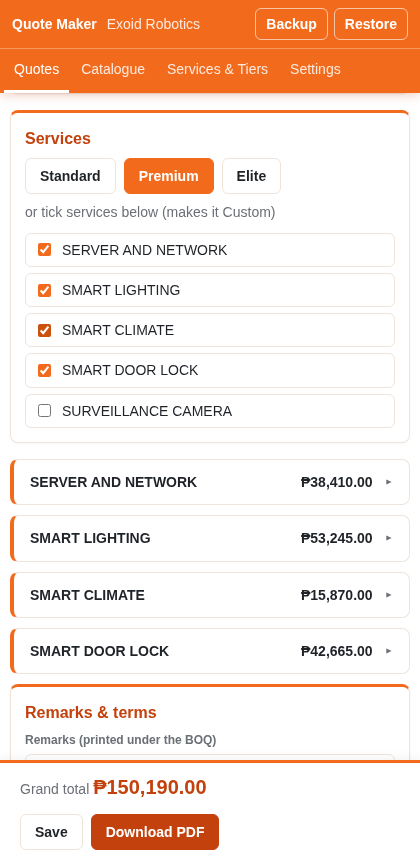
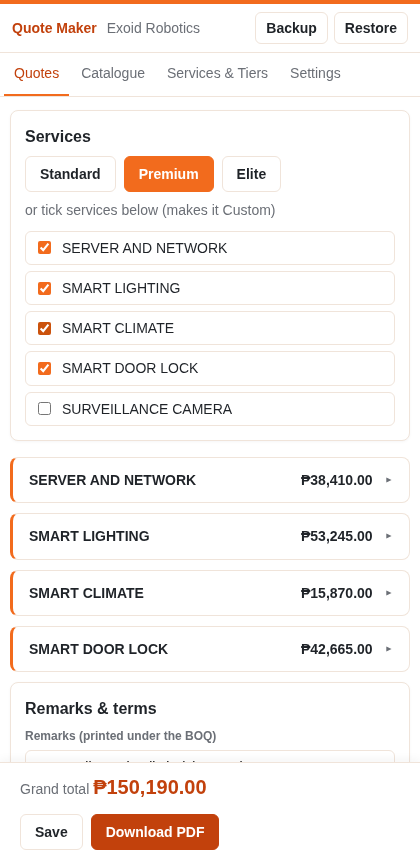
style: tone the orange down to an accent for a more professional look
- PDF: white cover with orange line-art house and outlined total; thin orange top band;
  pale orange table headers with dark text; totals highlighted with a rule, not a fill;
  service cards with a thin orange edge
- app: white header with orange top line and orange active tab; cards without orange stripes

Changed region(s): [[0.0, 0.0, 1.0, 0.907]]

diff --git a/src/pdf.js b/src/pdf.js
@@ -2,7 +2,8 @@
 // cover → what's included → BOQ → Proforma Invoice → one DUPA per pay item. Tables keep the Casa layout.
 import { quoteTotals, lineQty, lineTotal, fmtNum, num } from './calc.js';
 
-const C = { orange: '#F26B1D', deep: '#C2410C', soft: '#FFF1E8', zebra: '#FFF8F3', ink: '#1F2328', muted: '#6B6F76', line: '#EFE3D9' };
+// Orange is an accent only (rules, labels, icons); pages stay white and text dark so the document reads as formal.
+const C = { orange: '#F26B1D', deep: '#C2410C', soft: '#FFF4EC', zebra: '#FAFAFA', ink: '#1F2328', muted: '#6B6F76', line: '#E6E1DC' };
 const PAGE_W = 595.28;
 
 const fmtDate = iso => {
@@ -61,11 +62,11 @@ const icon = (name, color, size) => ({
   width: size,
 });
 
-const HOUSE_ART = `<svg xmlns="http://www.w3.org/2000/svg" width="240" height="200" viewBox="0 0 240 200" fill="none" stroke="#FFFFFF" stroke-width="3" stroke-linecap="round" stroke-linejoin="round">
+const HOUSE_ART = `<svg xmlns="http://www.w3.org/2000/svg" width="240" height="200" viewBox="0 0 240 200" fill="none" stroke="#F26B1D" stroke-width="2.5" stroke-linecap="round" stroke-linejoin="round">
   <path d="M30 100 L120 30 L210 100"/><path d="M48 86 V180 H192 V86"/><path d="M104 180 V136 H136 V180"/>
   <rect x="62" y="108" width="28" height="24" rx="2"/><rect x="150" y="108" width="28" height="24" rx="2"/>
   <path d="M76 108 V132 M62 120 H90 M164 108 V132 M150 120 H178"/>
-  <path d="M96 64 a34 34 0 0 1 48 0" opacity=".9"/><path d="M104 74 a22 22 0 0 1 32 0" opacity=".9"/><circle cx="120" cy="84" r="3" fill="#FFFFFF"/>
+  <path d="M96 64 a34 34 0 0 1 48 0" opacity=".9"/><path d="M104 74 a22 22 0 0 1 32 0" opacity=".9"/><circle cx="120" cy="84" r="3" fill="#F26B1D"/>
   <path d="M10 180 H230" opacity=".6"/>
 </svg>`;
 
@@ -110,10 +111,11 @@ function header(q, settings, title) {
 }
 const arr = v => (Array.isArray(v) ? v : []);
 
-// Orange rounded label, e.g. the tier name.
-const pill = (text, alignment = 'left', inverse = false) => ({
-  table: { body: [[{ text, bold: true, fontSize: 9, color: inverse ? C.orange : '#FFFFFF', fillColor: inverse ? '#FFFFFF' : C.orange, margin: [6, 1, 6, 1] }]] },
-  layout: 'noBorders', alignment, margin: [0, 4, 0, 0],
+// Outlined label, e.g. the tier name.
+const OUTLINE = { hLineWidth: () => 0.8, vLineWidth: () => 0.8, hLineColor: () => C.orange, vLineColor: () => C.orange };
+const pill = (text, alignment = 'left') => ({
+  table: { body: [[{ text, bold: true, fontSize: 8.5, color: C.deep, characterSpacing: 0.8, margin: [5, 0.5, 5, 0.5] }]] },
+  layout: OUTLINE, alignment, margin: [0, 4, 0, 0],
   ...(alignment === 'right' ? { width: 'auto' } : {}),
 });
 
@@ -140,7 +142,7 @@ function signature(q) {
 }
 
 const sectionTitle = text => ({
-  table: { widths: [4, '*'], body: [[{ text: '', fillColor: C.orange }, { text, bold: true, fontSize: 13, color: C.ink, margin: [6, 2, 0, 2] }]] },
+  table: { widths: [3, '*'], body: [[{ text: '', fillColor: C.orange }, { text, bold: true, fontSize: 13, color: C.ink, margin: [6, 1, 0, 1] }]] },
   layout: 'noBorders', margin: [0, 0, 0, 10],
 });
 
@@ -148,12 +150,12 @@ const sectionTitle = text => ({
 function coverPage(q, settings, totals) {
   const p = q.preparer || {};
   return [
-    { margin: [0, 6, 0, 0], ...brand(settings, { color: '#FFFFFF', logoWidth: 130 }) },
-    { text: 'SMART HOME PROPOSAL', fontSize: 28, bold: true, color: '#FFFFFF', margin: [0, 70, 0, 6], characterSpacing: 1 },
-    { text: s(q.client.project) || 'Smart Home', fontSize: 18, color: '#FFFFFF', margin: [0, 0, 220, 4] },
-    { text: s(q.client.address), color: '#FFFFFF', opacity: 0.9, margin: [0, 0, 240, 10] },
-    pill(s(q.tierName).toUpperCase(), 'left', true),
-    { svg: HOUSE_ART, width: 210, absolutePosition: { x: 350, y: 150 } },
+    { margin: [0, 6, 0, 0], ...brand(settings, { logoWidth: 130 }) },
+    { text: 'SMART HOME PROPOSAL', fontSize: 24, bold: true, color: C.ink, margin: [0, 122, 0, 6] },
+    { text: s(q.client.project) || 'Smart Home', fontSize: 15, color: C.ink, margin: [0, 0, 200, 3] },
+    { text: s(q.client.address), color: C.muted, margin: [0, 0, 220, 8] },
+    pill(s(q.tierName).toUpperCase()),
+    { svg: HOUSE_ART, width: 150, absolutePosition: { x: 400, y: 170 } },
     // Lower half sits on the white part of the cover at a fixed spot, whatever the title length.
     {
       absolutePosition: { x: 40, y: 478 },
@@ -180,11 +182,11 @@ function coverPage(q, settings, totals) {
           { text: 'CONTRACT CODE', style: 'kicker', margin: [0, 10, 0, 0] }, { text: s(q.code) },
         ] },
         { width: 257, table: { widths: ['*'], body: [[{
-          stack: [{ text: 'TOTAL INVESTMENT', color: '#FFFFFF', bold: true, fontSize: 9, characterSpacing: 1 },
-            { text: peso(totals.grandTotal), color: '#FFFFFF', bold: true, fontSize: 24, margin: [0, 4, 0, 2] },
-            { text: 'Full breakdown and payment terms on the following pages', color: '#FFFFFF', fontSize: 8, opacity: 0.9 }],
-          fillColor: C.orange, margin: [14, 12, 14, 12],
-        }]] }, layout: 'noBorders' },
+          stack: [{ text: 'TOTAL INVESTMENT', style: 'kicker' },
+            { text: peso(totals.grandTotal), color: C.ink, bold: true, fontSize: 20, margin: [0, 2, 0, 2] },
+            { text: 'Full breakdown and payment terms on the following pages', color: C.muted, fontSize: 8 }],
+          margin: [12, 10, 12, 10],
+        }]] }, layout: OUTLINE },
       ],
     },
   ];
@@ -211,11 +213,12 @@ function includedPage(q, settings, totals) {
     return {
       unbreakable: true, margin: [0, 0, 0, 8],
       table: { widths: [34, '*', 90], body: [[
-        { ...icon(iconFor(svc.title), C.orange, 22), margin: [4, 2, 0, 0] },
-        { stack: [{ text: s(svc.title), bold: true, fontSize: 10.5 }, { ul: bullets, markerColor: C.orange, color: C.ink, margin: [0, 3, 0, 0] }] },
-        { text: peso(total), alignment: 'right', bold: true, color: C.deep },
+        { ...icon(iconFor(svc.title), C.orange, 18), margin: [2, 1, 0, 0] },
+        { stack: [{ text: s(svc.title), bold: true, fontSize: 10 }, { ul: bullets, markerColor: C.muted, color: C.ink, margin: [0, 3, 0, 0] }] },
+        { text: peso(total), alignment: 'right', bold: true, color: C.ink },
       ]] },
-      layout: { hLineWidth: () => 0, vLineWidth: () => 0, fillColor: () => C.soft, paddingTop: () => 8, paddingBottom: () => 8, paddingLeft: () => 6, paddingRight: () => 8 },
+      layout: { hLineWidth: (i, node) => (i === node.table.body.length ? 0.5 : 0), hLineColor: () => C.line, vLineWidth: i => (i === 0 ? 2 : 0), vLineColor: () => C.orange,
+        paddingTop: () => 7, paddingBottom: () => 9, paddingLeft: () => 8, paddingRight: () => 4 },
     };
   });
   const remarks = s(q.remarks).split('\n').map(x => x.trim()).filter(Boolean);
@@ -224,14 +227,14 @@ function includedPage(q, settings, totals) {
     sectionTitle("WHAT'S INCLUDED"),
     { text: `Your ${s(q.tierName)} smart home package, service by service.`, color: C.muted, margin: [0, -4, 0, 12] },
     ...cards,
-    remarks.length ? { margin: [0, 6, 0, 0], stack: [{ text: 'HIGHLIGHTS', style: 'kicker' }, { ul: remarks, markerColor: C.orange, margin: [0, 4, 0, 0] }] } : '',
+    remarks.length ? { margin: [0, 6, 0, 0], stack: [{ text: 'HIGHLIGHTS', style: 'kicker' }, { ul: remarks, markerColor: C.muted, margin: [0, 4, 0, 0] }] } : '',
     {
       margin: [0, 14, 0, 0], unbreakable: true,
       table: { widths: ['*', 'auto'], body: [[
-        { text: 'TOTAL INVESTMENT', bold: true, color: '#FFFFFF', fillColor: C.orange, margin: [10, 8, 0, 8] },
-        { text: peso(totals.grandTotal), bold: true, fontSize: 16, color: '#FFFFFF', fillColor: C.orange, alignment: 'right', margin: [0, 5, 10, 5] },
+        { text: 'TOTAL INVESTMENT', bold: true, color: C.ink, margin: [0, 7, 0, 7] },
+        { text: peso(totals.grandTotal), bold: true, fontSize: 14, color: C.deep, alignment: 'right', margin: [0, 4, 0, 4] },
       ]] },
-      layout: 'noBorders',
+      layout: { hLineWidth: i => (i === 0 ? 1.2 : 0.5), hLineColor: i => (i === 0 ? C.orange : C.line), vLineWidth: () => 0 },
     },
     settings.footerNote ? { text: settings.footerNote, italics: true, color: C.muted, fontSize: 8, margin: [0, 10, 0, 0] } : '',
   ];
@@ -248,15 +251,15 @@ function boqTable(q, totals) {
     const p = svc.payItems[it.payItemIdx];
     if (it.section !== lastSection) {
       lastSection = it.section;
-      body.push([{ text: `${it.section}.0`, bold: true, color: C.deep, fillColor: C.soft }, { text: svc.title, bold: true, colSpan: 8, color: C.deep, fillColor: C.soft }, '', '', '', '', '', '', '']);
+      body.push([{ text: `${it.section}.0`, bold: true, color: C.deep }, { text: svc.title, bold: true, colSpan: 8, color: C.deep }, '', '', '', '', '', '', '']);
     }
     const t = it.totals;
     body.push([it.no, p.description, p.um, '1', ...[t.materials, t.labor, t.equipment, t.total].map(v => ({ text: fmtNum(v), alignment: 'right' })), '']);
   }
   body.push(
     [{ text: 'SUBTOTAL (PHP):', colSpan: 7, alignment: 'right', bold: true }, '', '', '', '', '', '', { text: fmtNum(totals.grandTotal), alignment: 'right', bold: true }, ''],
-    [{ text: 'GRAND TOTAL (PHP)', colSpan: 7, alignment: 'right', bold: true, fontSize: 10, color: '#FFFFFF', fillColor: C.orange }, '', '', '', '', '', '',
-      { text: fmtNum(totals.grandTotal), alignment: 'right', bold: true, fontSize: 10, color: '#FFFFFF', fillColor: C.orange }, { text: '', fillColor: C.orange }],
+    [{ text: 'GRAND TOTAL (PHP)', colSpan: 7, alignment: 'right', bold: true, fontSize: 10, color: C.deep, fillColor: C.soft }, '', '', '', '', '', '',
+      { text: fmtNum(totals.grandTotal), alignment: 'right', bold: true, fontSize: 10, color: C.deep, fillColor: C.soft }, { text: '', fillColor: C.soft }],
   );
   return { table: { headerRows: 1, widths: [24, '*', 26, 20, 56, 50, 50, 64, 40], body }, layout: TABLE, fontSize: 7.5 };
 }
@@ -306,13 +309,13 @@ function dupaPage(q, svc, p, no, t) {
   const sub = (label, v, opts = {}) => ['', { text: label, colSpan: 4, alignment: 'right', ...opts }, '', '', '', { text: fmtNum(v), alignment: 'right', ...opts }, { text: '', fillColor: opts.fillColor }];
   const body = [['ITEM', 'DESCRIPTION', 'QTY', 'U.M.', 'UNIT COST', 'TOTAL COST', 'REMARKS'].map(th)];
   [['material', '1.0', t.materials], ['labor', '2.0', t.labor], ['equipment', '3.0', t.equipment]].forEach(([k, n, v]) => {
-    body.push([{ text: n, bold: true, color: C.deep, fillColor: C.soft }, { text: s(p.headings?.[k]), bold: true, colSpan: 6, color: C.deep, fillColor: C.soft }, '', '', '', '', '']);
+    body.push([{ text: n, bold: true, color: C.deep }, { text: s(p.headings?.[k]), bold: true, colSpan: 6, color: C.deep }, '', '', '', '', '']);
     body.push(...lineRows(k));
     body.push(sub('SUBTOTAL', v, { color: C.muted }));
   });
   body.push(sub('SUBTOTAL', t.subtotal, { bold: true }));
   if (num(p.cpOcm)) body.push(sub(`CP,OCM ${pct(p.cpOcm)}`, t.cpOcm));
-  body.push(sub(`TOTAL UNIT COST FOR ${name}`, t.total, { bold: true, color: '#FFFFFF', fillColor: C.orange }));
+  body.push(sub(`TOTAL UNIT COST FOR ${name}`, t.total, { bold: true, color: C.deep, fillColor: C.soft }));
   return [
     { text: '', pageBreak: 'before' },
     { columnGap: 8, columns: [{ ...icon(iconFor(svc.title), C.orange, 20), width: 20 }, { width: '*', text: `${name}: DETAILED UNIT PRICE ANALYSIS (EXHIBIT B)`, style: 'title2', alignment: 'left', margin: [0, 3, 0, 8] }] },
@@ -340,14 +343,15 @@ export function buildDocDefinition(quote, settings) {
     defaultStyle: { fontSize: 9, lineHeight: 1.15, color: C.ink },
     styles: {
       h: { bold: true, fontSize: 9, color: C.deep, margin: [0, 0, 0, 4], characterSpacing: 0.5 },
-      th: { bold: true, fillColor: C.orange, color: '#FFFFFF', fontSize: 7.5 },
+      th: { bold: true, fillColor: C.soft, color: C.deep, fontSize: 7.5 },
       title2: { bold: true, fontSize: 11.5, alignment: 'center', margin: [0, 4, 0, 8], color: C.ink },
       kicker: { fontSize: 8, bold: true, color: C.orange, characterSpacing: 1, margin: [0, 0, 0, 2] },
     },
-    // Cover: orange top half. Other pages: a thin orange band.
-    background: (page, size) => (page === 1
-      ? { canvas: [{ type: 'rect', x: 0, y: 0, w: size.width, h: 440, color: C.orange }, { type: 'rect', x: 0, y: 440, w: size.width, h: 6, color: C.deep }] }
-      : { canvas: [{ type: 'rect', x: 0, y: 0, w: size.width, h: 8, color: C.orange }] }),
+    // A thin orange band on every page; the cover adds a rule above its details.
+    background: (page, size) => ({ canvas: [
+      { type: 'rect', x: 0, y: 0, w: size.width, h: 5, color: C.orange },
+      ...(page === 1 ? [{ type: 'line', x1: 40, y1: 452, x2: size.width - 40, y2: 452, lineWidth: 0.6, lineColor: C.line }] : []),
+    ] }),
     footer: (page, pages) => (page === 1 ? { text: contacts, alignment: 'center', fontSize: 7.5, color: C.muted, margin: [40, 16, 40, 0] } : {
       margin: [40, 10, 40, 0],
       stack: [

diff --git a/app.css b/app.css
@@ -14,19 +14,20 @@ h3 { font-size: 14px; margin: 16px 0 8px; }
 .bad { color: var(--bad); font-weight: 600; }
 .good { color: var(--good); }
 
-.top { display: flex; align-items: center; gap: 24px; padding: 0 20px; background: var(--accent); color: #fff; box-shadow: 0 2px 10px rgba(194, 65, 12, .25); position: sticky; top: 0; z-index: 10; flex-wrap: wrap; }
+.top { display: flex; align-items: center; gap: 24px; padding: 0 20px; background: #fff; color: var(--ink); border-top: 4px solid var(--accent); border-bottom: 1px solid var(--line); position: sticky; top: 0; z-index: 10; flex-wrap: wrap; }
 .brand { font-weight: 700; padding: 14px 0; }
-.brand span { font-weight: 400; opacity: .85; margin-left: 6px; }
+.brand { color: var(--accent-ink); }
+.brand span { font-weight: 400; color: var(--muted); margin-left: 6px; }
 .top nav { display: flex; gap: 2px; flex: 1; overflow-x: auto; }
-.top nav a { color: rgba(255, 255, 255, .85); font-weight: 500; text-decoration: none; padding: 16px 12px; border-bottom: 2px solid transparent; white-space: nowrap; }
-.top nav a.on, .top nav a:hover { color: #fff; border-bottom: 3px solid #fff; }
+.top nav a { color: var(--muted); font-weight: 500; text-decoration: none; padding: 16px 12px; border-bottom: 2px solid transparent; white-space: nowrap; }
+.top nav a.on, .top nav a:hover { color: var(--accent-ink); border-bottom: 2px solid var(--accent); }
 .top .io { display: flex; gap: 6px; }
-.top .io button { color: #fff; border-color: rgba(255, 255, 255, .6); }
-.top .io button:hover { background: rgba(255, 255, 255, .15); }
+.top .io button { color: var(--ink); border-color: var(--line); }
+.top .io button:hover { border-color: var(--accent); color: var(--accent-ink); }
 
 main { max-width: 1180px; margin: 0 auto; padding: 24px 20px 120px; }
-.card { background: var(--card); border: 1px solid var(--line); border-top: 3px solid var(--accent); border-radius: var(--radius); padding: 18px; margin-bottom: 16px; box-shadow: 0 1px 3px rgba(31, 35, 40, .04); }
-h1 { color: var(--ink); } h2 { color: var(--accent-ink); }
+.card { background: var(--card); border: 1px solid var(--line); border-radius: var(--radius); padding: 18px; margin-bottom: 16px; box-shadow: 0 1px 3px rgba(31, 35, 40, .04); }
+h1, h2 { color: var(--ink); }
 .card.error { border-color: var(--bad); color: var(--bad); }
 
 button, .button { font: inherit; padding: 7px 14px; border-radius: 6px; border: 1px solid var(--accent-ink); background: var(--accent-ink); color: #fff; cursor: pointer; font-weight: 600; display: inline-flex; align-items: center; gap: 6px; }
@@ -53,7 +54,7 @@ input[type=checkbox], input[type=radio] { width: auto; }
 table.grid { width: 100%; border-collapse: collapse; }
 table.grid th { text-align: left; font-size: 12px; color: var(--accent-ink); font-weight: 600; padding: 6px; border-bottom: 1px solid var(--line); white-space: nowrap; }
 table.grid td { padding: 4px 6px; border-bottom: 1px solid var(--line); vertical-align: middle; }
-table.grid tr.group td { background: var(--accent-soft); font-weight: 600; font-size: 12px; color: var(--muted); padding-top: 10px; }
+table.grid tr.group td { background: #fafafa; font-weight: 600; font-size: 12px; color: var(--muted); padding-top: 10px; }
 table.grid tbody tr.link { cursor: pointer; }
 table.grid tbody tr.link:hover td { background: var(--accent-soft); }
 table.grid input { padding: 4px 6px; }
@@ -61,7 +62,7 @@ table.grid td.w-qty { width: 90px; } table.grid td.w-price { width: 120px; } tab
 
 .sig canvas { width: 100%; max-width: 600px; aspect-ratio: 3 / 1; border: 1px dashed #b8bec6; border-radius: 6px; background: #fff; touch-action: none; display: block; margin-bottom: 8px; }
 
-details.svc { background: var(--card); border: 1px solid var(--line); border-left: 4px solid var(--accent); border-radius: var(--radius); margin-bottom: 10px; }
+details.svc { background: var(--card); border: 1px solid var(--line); border-left: 3px solid var(--accent); border-radius: var(--radius); margin-bottom: 10px; }
 details.svc > summary { padding: 12px 16px; cursor: pointer; display: flex; justify-content: space-between; gap: 12px; font-weight: 600; list-style: none; }
 details.svc > summary::after { content: '▸'; color: var(--muted); }
 details.svc[open] > summary::after { content: '▾'; }
@@ -69,12 +70,12 @@ details.svc > .body { padding: 0 16px 16px; }
 .payitem { border-top: 1px solid var(--line); padding-top: 12px; margin-top: 12px; }
 .payitem.off { opacity: .5; }
 .auto { color: var(--accent-ink); }
-.tag { display: inline-block; font-size: 11px; padding: 1px 8px; border-radius: 10px; background: var(--accent); color: #fff; font-weight: 700; }
+.tag { display: inline-block; font-size: 11px; padding: 1px 8px; border-radius: 10px; background: var(--accent-soft); color: var(--accent-ink); font-weight: 700; }
 
 .checks { display: grid; grid-template-columns: repeat(auto-fill, minmax(220px, 1fr)); gap: 6px; }
 .checks label { display: flex; gap: 8px; align-items: center; padding: 6px 8px; border: 1px solid var(--line); border-radius: 6px; background: #fff; cursor: pointer; }
 
-.footer-bar { position: fixed; left: 0; right: 0; bottom: 0; background: #fff; border-top: 3px solid var(--accent); box-shadow: 0 -2px 10px rgba(31, 35, 40, .06); padding: 10px 20px; z-index: 5; }
+.footer-bar { position: fixed; left: 0; right: 0; bottom: 0; background: #fff; border-top: 1px solid var(--line); box-shadow: 0 -2px 10px rgba(31, 35, 40, .05); padding: 10px 20px; z-index: 5; }
 .footer-bar .inner { max-width: 1180px; margin: 0 auto; display: flex; justify-content: space-between; align-items: center; gap: 12px; flex-wrap: wrap; }
 .footer-bar .total { font-size: 20px; font-weight: 800; color: var(--accent-ink); font-variant-numeric: tabular-nums; }
 
@@ -85,7 +86,7 @@ dialog::backdrop { background: rgba(0, 0, 0, .35); }
 
 @media (max-width: 640px) {
   .top { gap: 0 8px; padding: 0 12px; justify-content: space-between; }
-  .top nav { order: 3; flex: 1 0 100%; margin: 0 -12px; padding: 0 4px; border-top: 1px solid rgba(255, 255, 255, .3); }
+  .top nav { order: 3; flex: 1 0 100%; margin: 0 -12px; padding: 0 4px; border-top: 1px solid var(--line); }
   .top nav a { padding: 10px 10px; }
   .top .io button { padding: 5px 10px; }
   main { padding: 16px 10px 140px; }
